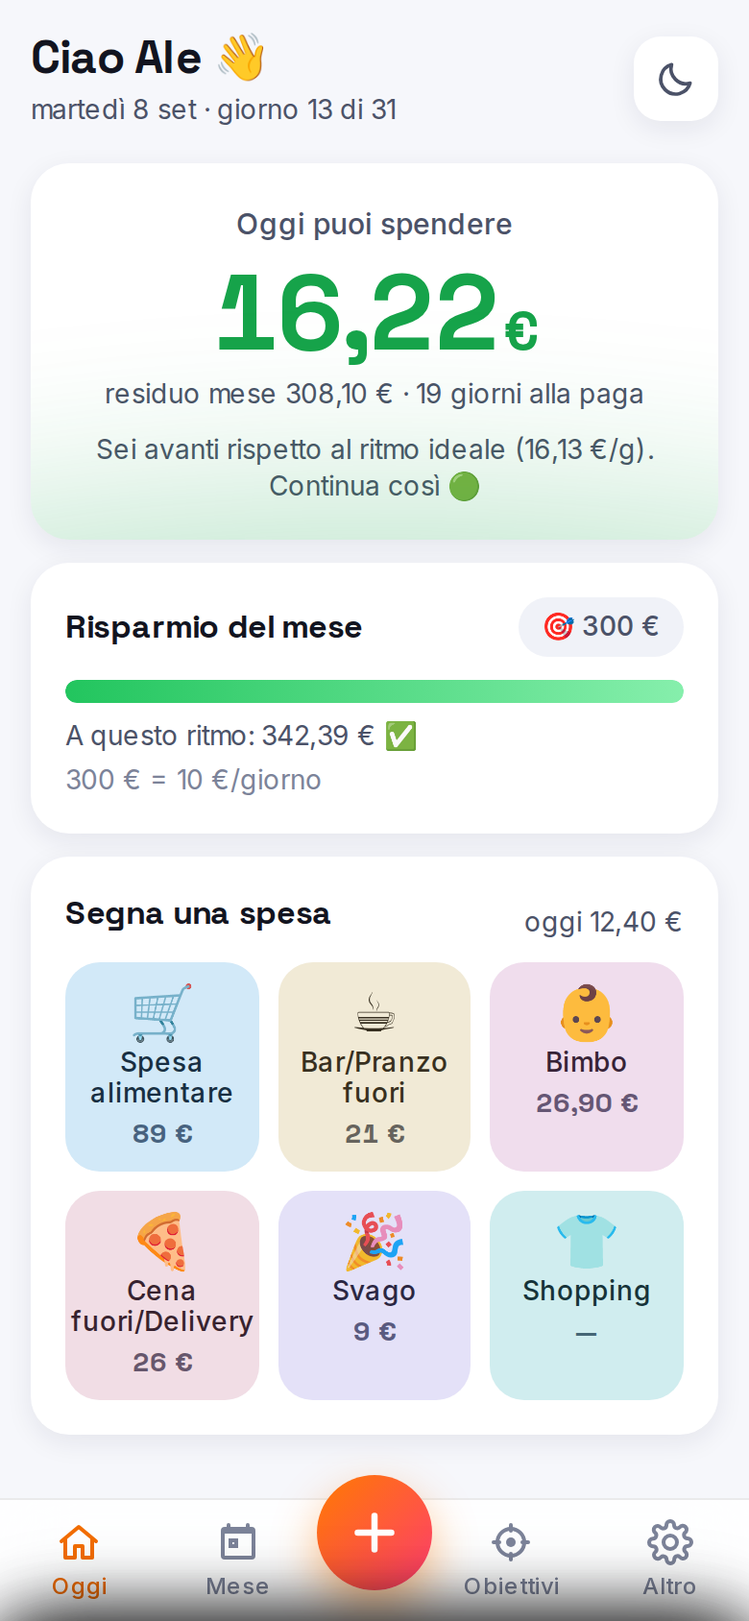
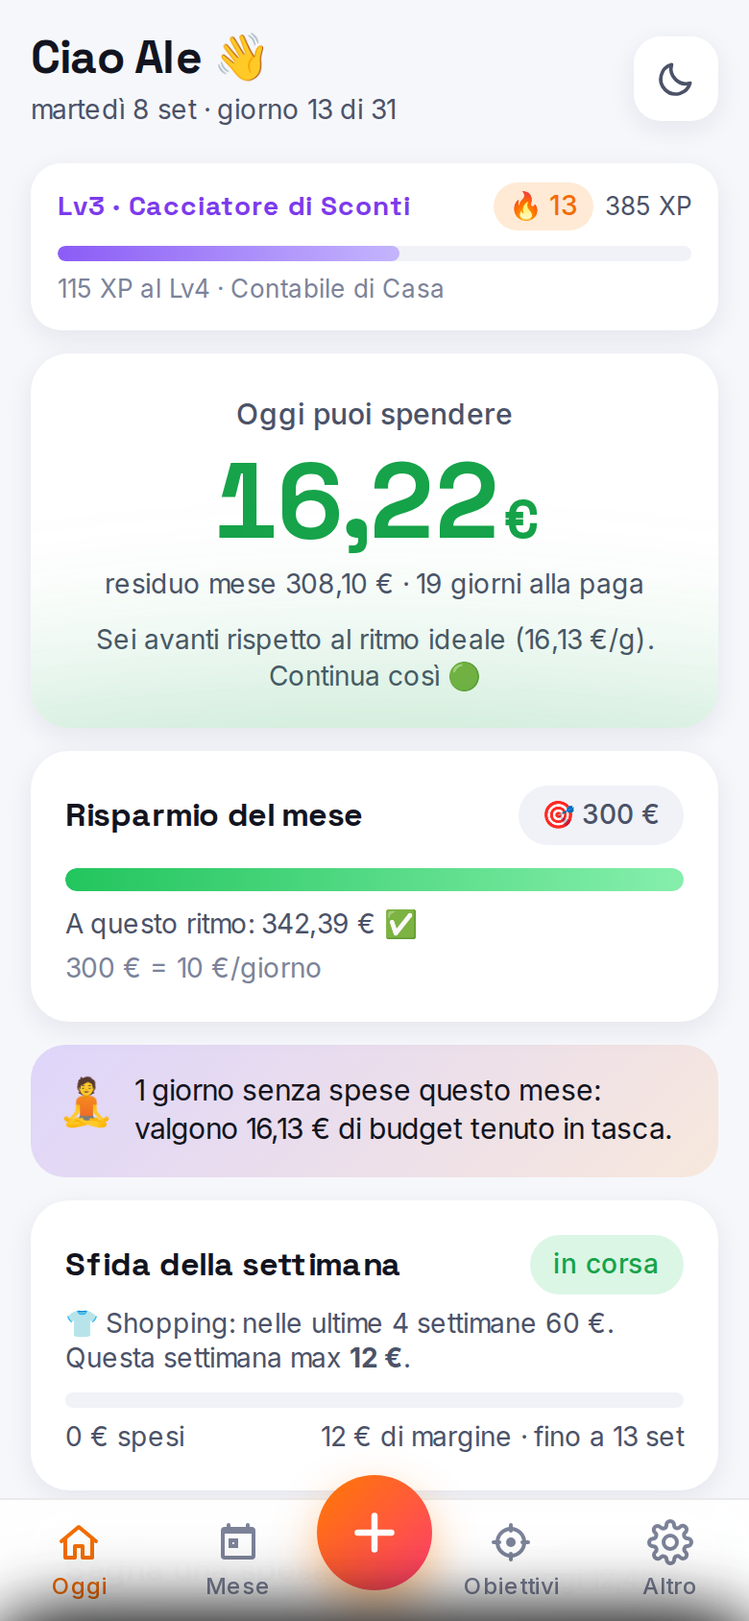
feat(soldi): gamification
XP legati a eventi finanziari reali (spesa registrata max 5/g, no-spend
day, settimana sotto budget, mese chiuso a obiettivo, salvadanaio pieno),
10 livelli con nomi ironici, streak di registrazione con 1 gelo al mese,
12 badge reali, sfida settimanale calcolata sui dati, insight concreti a
rotazione, Pagella al cambio mese, confetti solo su obiettivo/mese/badge,
città SVG che cresce di un edificio ogni 100 € versati.

Claude-Session: https://claude.ai/code/session_01E4buKwPQgm13Yjm7FVUMWz

Changed region(s): [[0.0308, 0.0924, 0.9846, 0.8934], [0.8923, 0.1232, 0.9231, 0.154], [0.8308, 0.1232, 0.8615, 0.154]]

diff --git a/soldi/index.html b/soldi/index.html
@@ -35,7 +35,7 @@
   color-scheme:light;
 }
 *{box-sizing:border-box;-webkit-tap-highlight-color:transparent}
-html,body{margin:0;background:var(--bg);color:var(--text);font-family:var(--font);font-size:16px;line-height:1.35;-webkit-font-smoothing:antialiased;overscroll-behavior-y:none}
+html,body{margin:0;background:var(--bg);color:var(--text);font-family:var(--font);font-size:16px;line-height:1.35;-webkit-font-smoothing:antialiased;overscroll-behavior-y:none;overflow-x:hidden;max-width:100vw}
 body{min-height:100dvh;padding-top:var(--sat)}
 button,input,select,textarea{font:inherit;color:inherit}
 button{cursor:pointer;border:0;background:none;padding:0;margin:0;touch-action:manipulation}
@@ -239,10 +239,10 @@ input:focus-visible{outline-offset:0}
 .emojigrid button.on{background:var(--surface-3)}
 
 /* gamification */
-.xpbar{display:flex;align-items:center;gap:10px;padding:10px 14px;background:var(--surface);border-radius:16px;margin:12px 0 0;box-shadow:var(--shadow-sm)}
-.xpbar .lv{font-family:var(--num);font-weight:700;font-size:14px;color:var(--violet);white-space:nowrap}
-.xpbar .bar{flex:1}
-.xpbar .xp{font-size:13px;color:var(--text-2);white-space:nowrap}
+.xpbar{padding:10px 14px 12px;background:var(--surface);border-radius:16px;margin:12px 0 0;box-shadow:var(--shadow-sm)}
+.xpbar .top{display:flex;align-items:center;justify-content:space-between;gap:8px;margin-bottom:8px;min-width:0}
+.xpbar .lv{font-family:var(--num);font-weight:700;font-size:14px;color:var(--violet);overflow:hidden;text-overflow:ellipsis;white-space:nowrap;min-width:0}
+.xpbar .xp{font-size:13px;color:var(--text-2);white-space:nowrap;display:flex;align-items:center;gap:6px;flex:0 0 auto}
 .badges{display:grid;grid-template-columns:repeat(4,1fr);gap:8px}
 .badge{background:var(--surface-2);border-radius:16px;padding:10px 4px;display:flex;flex-direction:column;align-items:center;gap:4px;text-align:center;min-height:84px}
 .badge .em{font-size:28px;filter:grayscale(1);opacity:.35}
@@ -487,7 +487,8 @@ const uid = () => Math.random().toString(36).slice(2,10) + Date.now().toString(3
 const clamp = (v,a,b) => Math.min(b, Math.max(a, v));
 const round2 = v => Math.round(v*100)/100;
 const REDUCED = matchMedia('(prefers-reduced-motion: reduce)').matches;
-const vibrate = (p=12) => { try { navigator.vibrate && navigator.vibrate(p); } catch(e){} };
+let userGesture = false; addEventListener('pointerdown', () => { userGesture = true; }, {once:true, passive:true}); addEventListener('keydown', () => { userGesture = true; }, {once:true});
+const vibrate = (p=12) => { if (!userGesture) return; try { navigator.vibrate && navigator.vibrate(p); } catch(e){} };
 
 /* ---------- formattazione ---------- */
 const nf0 = new Intl.NumberFormat('it-IT', {maximumFractionDigits:0});
@@ -803,7 +804,7 @@ let openSheet = null;
 function sheetOpen(id){
   if (openSheet && openSheet !== id) $('#' + openSheet).classList.remove('open');
   openSheet = id; $('#overlay').classList.add('open'); $('#' + id).classList.add('open');
-  document.body.style.overflow = 'hidden';
+  document.body.style.overflow = 'hidden'; $('#toast').classList.remove('show'); clearTimeout(toastTimer);
 }
 function sheetClose(){
   if (openSheet) $('#' + openSheet).classList.remove('open');
@@ -1030,9 +1031,10 @@ function renderMonth(){
     <span class="k">Obiettivo</span><span class="v num">${eur(goal)}</span>
     <span class="k">Delta</span><span class="v num" style="color:${delta>=0?'var(--green)':'var(--red)'}">${delta>=0?'+':''}${eur(delta)}</span>
     ${isCur ? `<span class="k">Budget variabile residuo</span><span class="v num">${eur(st.residual)} · ${st.daysLeft} gg</span>` : ''}
-  </div><div style="margin-top:10px">${cmp}</div></div>`;
+  </div><div class="row between" style="margin-top:10px;flex-wrap:wrap">${cmp}${arch ? `<button class="btn ghost sm" id="btn-pagella">📋 Pagella</button>` : ''}</div></div>`;
+  const bp = $('#btn-pagella'); if (bp) bp.addEventListener('click', () => showPagella(fm.id));
   const totals = byCatTotals(st.list); const entries = Object.entries(totals).sort((a,b) => b[1]-a[1]);
-  $('#month-donut').innerHTML = `<div class="card"><h2>Per categoria</h2><div class="donutwrap">${donutSVG(entries, st.spent)}<div class="legend grow" style="flex-direction:column;gap:6px">${entries.slice(0,6).map(([id,v]) => `<div class="it"><span class="dot" style="background:${cat(id).color}"></span><span class="nm">${cat(id).emoji} ${esc(cat(id).name)}</span><b class="num">${eur(v)}</b></div>`).join('') || '<div class="it">Nessuna spesa ancora</div>'}</div></div></div>`;
+  $('#month-donut').innerHTML = `<div class="card"><h2>Per categoria</h2><div class="donutwrap">${donutSVG(entries, st.spent)}<div class="legend grow" style="flex-direction:column;flex-wrap:nowrap;gap:6px">${entries.slice(0,6).map(([id,v]) => `<div class="it"><span class="dot" style="background:${cat(id).color}"></span><span class="nm">${cat(id).emoji} ${esc(cat(id).name)}</span><b class="num">${eur(v)}</b></div>`).join('') || '<div class="it">Nessuna spesa ancora</div>'}</div></div></div>`;
   $('#month-bars').innerHTML = `<div class="card"><h2>Giorno per giorno</h2>${barsSVG(fm, st.list, st.perDayIdeal, asOf)}<div class="row between small muted" style="margin-top:6px"><span>media ${eur(st.avgDaily, 2)}/g</span><span>ideale ${eur(st.perDayIdeal, 2)}/g</span></div></div>`;
   // lista
   let list = st.list.slice().sort((a,b) => b.date.localeCompare(a.date) || (b.ts||0) - (a.ts||0));
@@ -1287,11 +1289,251 @@ async function resetAll(){
 }
 </script>
 <script>
-/* stub Fase 1: sostituito in Fase 2 */
-function renderGamiHome(){ $('#xpbar-home').innerHTML = ''; $('#insight-home').innerHTML=''; $('#challenge-home').innerHTML=''; $('#city-home').innerHTML=''; }
-function renderBadges(){ $('#badges-card').innerHTML = ''; }
+/* =====================================================================
+   GAMIFICATION — ogni meccanica è legata a un evento finanziario reale.
+   Niente streak di login, niente classifiche, niente confetti a ogni spesa.
+   ===================================================================== */
+const LEVELS = [
+  [0,'Portafoglio Bucato'],[100,'Apprendista del Resto'],[250,'Cacciatore di Sconti'],[500,'Contabile di Casa'],
+  [800,'Formica Emiliana'],[1200,'Guardiano del Budget'],[1700,'Stratega del Salvadanaio'],[2300,'Maestro del Residuo'],
+  [3000,'Drago del Risparmio'],[4000,'Squalo del Risparmio']
+];
+const BADGES = [
+  {id:'first',       em:'✍', name:'Prima spesa',            desc:'Hai registrato la prima spesa'},
+  {id:'first300',    em:'🏆', name:'Primo mese a +300',      desc:'Mese chiuso con almeno 300 € risparmiati'},
+  {id:'week7',       em:'📅', name:'7 giorni sotto budget',  desc:'Una settimana intera sotto il budget giornaliero'},
+  {id:'nospend3',    em:'🧘', name:'3 no-spend di fila',     desc:'Tre giorni consecutivi senza spese variabili'},
+  {id:'bar20',       em:'☕', name:'Bar −20%',               desc:'Bar/Pranzo fuori −20% rispetto al mese prima'},
+  {id:'fondo25',     em:'🛟', name:'Fondo al 25%',           desc:'Fondo emergenza al 25%'},
+  {id:'fondo50',     em:'🛟', name:'Fondo al 50%',           desc:'Fondo emergenza al 50%'},
+  {id:'fondo100',    em:'🏦', name:'Fondo completo',         desc:'Fondo emergenza al 100%'},
+  {id:'tredicesima', em:'🎄', name:'Tredicesima al sicuro',  desc:'Tredicesima interamente nei salvadanai'},
+  {id:'streak14',    em:'🔥', name:'14 giorni di fila',      desc:'Due settimane di registrazione senza buchi'},
+  {id:'goal',        em:'🎯', name:'Salvadanaio pieno',      desc:'Primo obiettivo raggiunto'},
+  {id:'tris',        em:'🥇', name:'Tris di mesi',           desc:'Tre mesi di fila con obiettivo centrato'},
+];
+const G = () => S.gami;
+const dayISO = ts => iso(new Date(ts));
+const firstUse = () => S.meta.firstUse || (S.meta.firstUse = dayISO(S.meta.created || Date.now()));
+function levelOf(xp){ let i = 0; for (let k = 0; k < LEVELS.length; k++) if (xp >= LEVELS[k][0]) i = k; return { n: i+1, name: LEVELS[i][1], from: LEVELS[i][0], to: LEVELS[i+1] ? LEVELS[i+1][0] : null }; }
+function addXP(n, why){
+  const before = levelOf(G().xp).n; G().xp += n; G().updatedAt = Date.now(); save();
+  const after = levelOf(G().xp);
+  if (after.n > before) { G().seenLevel = after.n; setTimeout(() => toast(`Livello ${after.n}: ${after.name}! 🎉`), 600); vibrate([20,40,20]); }
+  return n;
+}
+function unlockBadge(id, quiet){
+  if (G().badges.some(b => b.id === id)) return false;
+  const def = BADGES.find(b => b.id === id); if (!def) return false;
+  G().badges.push({ id, at: today() }); G().updatedAt = Date.now(); save();
+  if (!quiet) celebrate(`Badge sbloccato: ${def.em} ${def.name}`, def.desc);
+  return true;
+}
+/* ---- confetti (solo: obiettivo raggiunto, mese ≥300, badge) ---- */
+function celebrate(title, text, onClose){
+  vibrate([30,60,30,60,60]);
+  modalOpen(`<div style="text-align:center"><div style="font-size:56px" class="pop">🎉</div><h2>${esc(title)}</h2><p class="muted" style="margin:0 0 14px">${esc(text||'')}</p><button class="btn primary" id="m-ok">Grande!</button></div>`, onClose);
+  $('#m-ok').onclick = modalClose;
+  if (REDUCED) return;
+  const c = $('#confetti'); c.classList.remove('hidden'); const ctx = c.getContext('2d');
+  c.width = innerWidth * devicePixelRatio; c.height = innerHeight * devicePixelRatio; ctx.scale(devicePixelRatio, devicePixelRatio);
+  const cols = ['#FF7A00','#22C55E','#8B5CF6','#F59E0B','#38BDF8','#F472B6'];
+  const P = Array.from({length: 120}, () => ({ x: innerWidth/2 + (Math.random()-.5)*120, y: innerHeight*0.45, vx: (Math.random()-.5)*14, vy: -Math.random()*16-4, r: Math.random()*6+4, c: cols[Math.floor(Math.random()*cols.length)], a: Math.random()*Math.PI, va: (Math.random()-.5)*.3 }));
+  const t0 = performance.now();
+  (function frame(t){ const el = (t - t0)/1000; ctx.clearRect(0,0,innerWidth,innerHeight);
+    for (const p of P) { p.vy += .5; p.x += p.vx; p.y += p.vy; p.vx *= .99; p.a += p.va; ctx.save(); ctx.translate(p.x,p.y); ctx.rotate(p.a); ctx.fillStyle = p.c; ctx.globalAlpha = Math.max(0, 1 - el/2.2); ctx.fillRect(-p.r/2,-p.r/2,p.r,p.r*.6); ctx.restore(); }
+    if (el < 2.4) requestAnimationFrame(frame); else { ctx.clearRect(0,0,innerWidth,innerHeight); c.classList.add('hidden'); } })(t0);
+}
+
+/* ---- rilevazioni a ogni apertura ---- */
+function weekId(d){ const dt = fromISO(d); const day = (dt.getDay()+6)%7; dt.setDate(dt.getDate()-day); return iso(dt); } // lunedì
+function activityDays(){ const s = new Set(expenses().map(e => e.date)); for (const d of G().noSpend) s.add(d); return s; }
+function detectNoSpend(){
+  const t = today(); const from = G().lastSeen ? addDays(G().lastSeen, 0) : firstUse();
+  const start = addDays(t, -3) > from ? addDays(t, -3) : from; // al massimo 3 giorni indietro: se sparisci una settimana non regalo XP
+  const spentDays = new Set(expenses().map(e => e.date));
+  let n = 0;
+  for (let d = start; d < t; d = addDays(d, 1)) {
+    if (d < firstUse()) continue;
+    if (!spentDays.has(d) && !G().noSpend.includes(d)) { G().noSpend.push(d); n++; }
+  }
+  if (n) { addXP(25*n); toast(n === 1 ? `Ieri zero spese: +25 XP 🧘` : `${n} giorni senza spese: +${25*n} XP 🧘`); }
+  // badge 3 di fila
+  const ns = G().noSpend.slice().sort();
+  for (let i = 2; i < ns.length; i++) if (daysBetween(ns[i-2], ns[i]) === 2) { unlockBadge('nospend3'); break; }
+}
+function computeStreak(){
+  // giorni consecutivi con almeno una spesa registrata O un no-spend day; 1 "gelo" gratis al mese copre un buco
+  const A = activityDays(); const t = today(); const used = G().freezeUsed || (G().freezeUsed = {});
+  const pending = {}; const chain = []; // [{d, bridge}] dal più recente
+  let d = A.has(t) ? t : addDays(t, -1);
+  while (d >= firstUse() && chain.length < 3650) {
+    if (A.has(d)) chain.push({ d, bridge: false });
+    else { const m = d.slice(0,7); if (used[m] === d) chain.push({ d, bridge: true }); else if (!used[m] && !pending[m]) { pending[m] = d; chain.push({ d, bridge: true }); } else break; }
+    d = addDays(d, -1);
+  }
+  while (chain.length && chain[0].bridge) { const x = chain.shift(); const m = x.d.slice(0,7); if (pending[m] === x.d) delete pending[m]; } // un gelo vale solo tra due giorni attivi
+  while (chain.length && chain[chain.length-1].bridge) { const x = chain.pop(); const m = x.d.slice(0,7); if (pending[m] === x.d) delete pending[m]; }
+  Object.assign(used, pending);
+  const n = chain.length;
+  G().streak = n; if (n > (G().streakBest||0)) G().streakBest = n;
+  if (n >= 14) unlockBadge('streak14');
+  G().updatedAt = Date.now();
+}
+function checkWeeks(){ // settimane (lun-dom) chiuse sotto budget → +50
+  const t = today(); const thisWeek = weekId(t); let w = weekId(firstUse());
+  if (w < firstUse()) w = addDays(w, 7);
+  G().weeksClosed = G().weeksClosed || [];
+  while (addDays(w, 6) < t && w < thisWeek) {
+    if (!G().weeksClosed.includes(w)) {
+      const end = addDays(w, 6); const fm = finMonth(end); const per = budgetVar() / fm.days;
+      const spent = sum(expenses().filter(e => e.date >= w && e.date <= end));
+      G().weeksClosed.push(w);
+      if (spent <= per * 7) { addXP(50); toast(`Settimana ${fmtShort(w)}–${fmtShort(end)} sotto budget: +50 XP 🟢`); }
+      // sfida settimanale della settimana chiusa
+      const ch = G().weekly; if (ch && ch.week === w && ch.catId) { const s = sum(expenses().filter(e => e.date >= w && e.date <= end && e.catId === ch.catId)); if (s <= ch.target) { addXP(30); toast(`Sfida vinta: ${cat(ch.catId).emoji} ${eur(s)} ≤ ${eur(ch.target)} · +30 XP`); } }
+    }
+    w = addDays(w, 7);
+  }
+  // 7 giorni consecutivi sotto budget/giorno
+  const fm = finMonth(t); const per = budgetVar() / fm.days; const byDay = {}; for (const e of expenses()) byDay[e.date] = (byDay[e.date]||0) + e.amount;
+  let run = 0; for (let d = addDays(t, -1); d >= firstUse() && d >= addDays(t, -60); d = addDays(d, -1)) { if ((byDay[d]||0) <= per) { run++; if (run >= 7) { unlockBadge('week7'); break; } } else run = 0; }
+}
+function weeklyChallenge(){
+  const t = today(); const w = weekId(t);
+  if (G().weekly && G().weekly.week === w) return G().weekly;
+  const from = addDays(w, -28), to = addDays(w, -1);
+  const hist = expenses().filter(e => e.date >= from && e.date <= to);
+  let ch = { week: w, catId: null, target: 0, base: 0 };
+  if (hist.length >= 3) {
+    const tot = byCatTotals(hist); const pick = Object.entries(tot).filter(([id]) => id !== 'spesa').sort((a,b) => b[1]-a[1])[0] || Object.entries(tot).sort((a,b) => b[1]-a[1])[0];
+    if (pick) ch = { week: w, catId: pick[0], base: round2(pick[1]), target: Math.max(5, Math.round(pick[1] / 4 * 0.8)) };
+  }
+  G().weekly = ch; G().updatedAt = Date.now(); save(); return ch;
+}
+function checkGoalBadges(){
+  const f = S.goals.find(g => g.id === 'fondo' && !g.deleted) || goals().find(g => /emergenz/i.test(g.name));
+  if (f && f.target > 0) { const p = f.balance / f.target; if (p >= 1) unlockBadge('fondo100'); else if (p >= .5) unlockBadge('fondo50'); else if (p >= .25) unlockBadge('fondo25'); }
+}
+function onOpen(){
+  firstUse();
+  if (expenses().length) unlockBadge('first');
+  detectNoSpend(); checkWeeks(); computeStreak(); weeklyChallenge(); checkGoalBadges();
+  G().lastSeen = today(); G().insightIdx = (G().insightIdx||0) + 1; G().updatedAt = Date.now(); save();
+}
+EV.on('open', onOpen);
+EV.on('expenseAdded', e => {
+  const d = today(); const log = G().xpLog; const cnt = log[d] || 0;
+  if (e.date === d && cnt < 5) { log[d] = cnt + 1; addXP(10); }
+  const i = G().noSpend.indexOf(e.date); if (i >= 0) G().noSpend.splice(i, 1); // era segnato no-spend: non più
+  if (expenses().length === 1) unlockBadge('first');
+  computeStreak(); save();
+});
+EV.on('goalReached', g => { addXP(100); const nb = unlockBadge('goal', true); checkGoalBadges(); celebrate(`${g.emoji} ${g.name}: obiettivo raggiunto!`, `${eur(g.target)} messi da parte. Sul serio.${nb ? ' Badge 🎯 Salvadanaio pieno sbloccato.' : ''}`); });
+EV.on('income', inc => { if (inc.type === 'tredicesima' && inc.amount >= (+S.settings.extra.tredicesima || 0)) unlockBadge('tredicesima'); checkGoalBadges(); });
+EV.on('monthClosed', rec => {
+  const hit = rec.saved >= rec.goal;
+  if (hit) { addXP(200); unlockBadge('first300', true); }
+  if (rec.prevByCat && rec.prevByCat.bar > 0 && (rec.byCat.bar||0) <= rec.prevByCat.bar * 0.8) unlockBadge('bar20', true);
+  const closed = S.months.slice().sort((a,b) => a.id.localeCompare(b.id)); const last3 = closed.slice(-3);
+  if (last3.length === 3 && last3.every(m => m.saved >= m.goal)) unlockBadge('tris', true);
+  rec.badges = G().badges.filter(b => b.at === today()).map(b => b.id);
+  checkGoalBadges();
+});
+
+/* ---- insight concreti (1 alla volta, ruotano) ---- */
+function insights(st){
+  const out = []; const goal = S.settings.savingsGoal; const fm = st.fm;
+  const totals = byCatTotals(st.list); const top = Object.entries(totals).sort((a,b) => b[1]-a[1])[0];
+  if (top && st.daysElapsed >= 3) {
+    const c = cat(top[0]); const projC = top[1] / st.daysElapsed * fm.days; const target = Math.max(10, Math.round(projC * 0.7 / 10) * 10);
+    const gain = projC - target; const days = Math.floor(gain / st.perDayIdeal);
+    if (st.projectedSaving < goal) out.push({ em: c.emoji, t: `Se tieni ${c.name} a ${eur(target)}/mese (ora viaggi a ${eur(projC)}) recuperi ${eur(gain)} e ${st.projectedSaving + gain >= goal ? 'centri i ' + eur(goal) : 'ti avvicini ai ' + eur(goal)}.` });
+    else if (days >= 1) out.push({ em: c.emoji, t: `Se tagli ${c.name} a ${eur(target)}/mese raggiungi i ${eur(goal)} con ${days} giorn${days===1?'o':'i'} di anticipo.` });
+  }
+  const ns = G().noSpend.filter(d => d >= fm.start && d <= fm.end).length;
+  if (ns) out.push({ em: '🧘', t: `${ns} giorn${ns===1?'o':'i'} senza spese questo mese: valgono ${eur(ns * st.perDayIdeal)} di budget tenuto in tasca.` });
+  const prev = sameDayPrevMonth(fm, today()); if (prev.hasData && st.daysElapsed >= 2) out.push({ em: prev.spent >= st.spent ? '📉' : '📈', t: prev.spent >= st.spent ? `Allo stesso giorno del mese scorso avevi speso ${eur(prev.spent)}: oggi sei a ${eur(st.spent)}, ${eur(prev.spent - st.spent)} in meno.` : `Allo stesso giorno del mese scorso eri a ${eur(prev.spent)}: oggi ${eur(st.spent)}. Occhio alle prossime ${st.daysLeft} giornate.` });
+  for (const g of goals()) if (g.deadline && g.balance < g.target) { const dl = daysBetween(today(), g.deadline); if (dl >= 0 && dl <= 90) out.push({ em: g.emoji, t: `${g.name} tra ${dl} giorni: mancano ${eur(g.target - g.balance)}. ${eur(Math.ceil((g.target - g.balance) / Math.max(1, dl)))} al giorno e ci sei.` }); }
+  const a = annualProgress(); if (a.total > 0) out.push({ em: '🏁', t: `Traguardo annuo: ${eur(a.total)} su ${eur(a.target)} (${Math.round(a.total/a.target*100)}%). ${eur(a.target - a.total)} e sei in cima.` });
+  if (st.spentToday === 0 && st.daysElapsed > 1) out.push({ em: '☀', t: `Oggi zero spese finora. Se resta così: +25 XP stasera e ${eur(st.perDayIdeal)} in più di margine.` });
+  if (!out.length) out.push({ em: '🌱', t: `Registra tutto per qualche giorno: da lì arrivano i consigli fatti sui tuoi numeri.` });
+  return out;
+}
+function cityIndex(){
+  const total = sum(S.incomes.filter(i => !i.deleted)); // versamenti nei salvadanai (mensili + extra)
+  const monuments = S.incomes.filter(i => !i.deleted && (i.type === 'tredicesima' || i.type === 'quattordicesima')).length;
+  return { total, buildings: Math.floor(total / 100), monuments };
+}
+function citySVG(){
+  const { total, buildings, monuments } = cityIndex();
+  const W = 360, H = 150, ground = 122; const n = Math.min(buildings, 28); const bw = n > 14 ? 20 : 26; const gap = 4;
+  const startX = Math.max(8, (W - n*(bw+gap)) / 2);
+  let els = ''; const cols = ['#4C5BD4','#7C3AED','#2E3A8C'];
+  const rnd = i => { const x = Math.sin(i*9301+49297) * 233280; return x - Math.floor(x); };
+  for (let i = 0; i < n; i++) {
+    const h = 30 + Math.round(rnd(i) * 60); const x = startX + i*(bw+gap); const y = ground - h; const col = cols[i % 3];
+    els += `<rect x="${x}" y="${y}" width="${bw}" height="${h}" rx="2" fill="${col}"/>`;
+    if (rnd(i+7) > .5) els += `<rect x="${x + bw/2 - 3}" y="${y-8}" width="6" height="8" fill="${col}"/>`;
+    for (let r = 0; r < Math.floor((h-8)/12); r++) for (let c = 0; c < Math.floor((bw-6)/8); c++) if (rnd(i*31 + r*7 + c*3) > .35) els += `<rect x="${x + 4 + c*8}" y="${y + 6 + r*12}" width="4" height="6" fill="#FDE68A" opacity=".95"/>`;
+  }
+  for (let m = 0; m < Math.min(monuments, 3); m++) { const x = W - 40 - m*30; els += `<polygon points="${x},${ground} ${x+14},${ground-78} ${x+28},${ground}" fill="#FF7A00"/><rect x="${x+12}" y="${ground-84}" width="4" height="10" fill="#FFB366"/><circle cx="${x+14}" cy="${ground-86}" r="4" fill="#FDE68A"/>`; }
+  const stars = Array.from({length: 26}, (_, i) => `<circle cx="${(rnd(i*3)*W).toFixed(0)}" cy="${(rnd(i*5)*80+6).toFixed(0)}" r="${(rnd(i*7)*1.2+.5).toFixed(1)}" fill="#fff" opacity="${(rnd(i*11)*.6+.3).toFixed(2)}"/>`).join('');
+  const next = 100 - (total % 100);
+  return `<svg class="city" viewBox="0 0 ${W} ${H}" role="img" aria-label="La tua città: ${buildings} edifici"><defs><linearGradient id="sky" x1="0" y1="0" x2="0" y2="1"><stop offset="0" stop-color="#0B1030"/><stop offset="1" stop-color="#2A1F5C"/></linearGradient></defs><rect width="${W}" height="${H}" fill="url(#sky)"/>${stars}<circle cx="318" cy="30" r="14" fill="#FDE68A"/><circle cx="324" cy="26" r="12" fill="#1A1F4A"/>${els}<rect x="0" y="${ground}" width="${W}" height="${H-ground}" fill="#141838"/>${n === 0 ? `<text x="${W/2}" y="${ground-30}" text-anchor="middle" font-family="Inter" font-size="13" fill="#A6ADC2">Terreno pronto: il primo edificio arriva a 100 € risparmiati</text>` : ''}<text x="12" y="${H-9}" font-family="Inter" font-size="11" fill="#A6ADC2">${buildings} edifici${monuments ? ' · ' + monuments + ' monument' + (monuments===1?'o':'i') : ''} · prossimo tra ${eur(next)}</text></svg>`;
+}
+
+/* ---- rendering in home / obiettivi ---- */
+function renderGamiHome(st){
+  const lv = levelOf(G().xp); const pct = lv.to ? (G().xp - lv.from) / (lv.to - lv.from) * 100 : 100;
+  const streak = G().streak || 0;
+  $('#xpbar-home').innerHTML = `<div class="xpbar"><div class="top"><span class="lv">Lv${lv.n} · ${esc(lv.name)}</span><span class="xp">${streak >= 2 ? `<span class="pill orange" style="padding:3px 8px" title="Giorni di fila con spese registrate o no-spend">🔥 ${streak}</span>` : ''}<span>${G().xp} XP</span></span></div><div class="bar xp thin"><i style="width:${pct.toFixed(0)}%"></i></div>${lv.to ? `<div class="small faint" style="margin-top:6px;font-size:13px">${lv.to - G().xp} XP al Lv${lv.n+1} · ${esc(LEVELS[lv.n][1])}</div>` : ''}</div>`;
+  const ins = insights(st); const it = ins[(G().insightIdx||0) % ins.length];
+  $('#insight-home').innerHTML = `<div class="insight"><span class="em">${it.em}</span><span>${esc(it.t)}</span></div>`;
+  const ch = weeklyChallenge(); const w = ch.week, end = addDays(w, 6);
+  if (ch.catId) {
+    const c = cat(ch.catId); const spent = sum(expenses().filter(e => e.date >= w && e.date <= end && e.catId === ch.catId)); const p = clamp(spent / ch.target, 0, 1);
+    $('#challenge-home').innerHTML = `<div class="card challenge"><div class="row between"><h2 style="margin:0">Sfida della settimana</h2><span class="pill ${spent<=ch.target?'green':'red'}">${spent <= ch.target ? 'in corsa' : 'sforata'}</span></div><div class="small muted" style="margin:6px 0 8px">${c.emoji} ${esc(c.name)}: nelle ultime 4 settimane ${eur(ch.base)}. Questa settimana max <b>${eur(ch.target)}</b>.</div><div class="bar thin ${spent<=ch.target?'reward':''}" style="${spent>ch.target?'':''}"><i style="width:${(p*100).toFixed(0)}%;${spent>ch.target?'background:var(--red)':''}"></i></div><div class="nums"><span>${eur(spent)} spesi</span><span>${spent <= ch.target ? eur(ch.target - spent) + ' di margine' : 'oltre di ' + eur(spent - ch.target)} · fino a ${fmtShort(end)}</span></div></div>`;
+  } else $('#challenge-home').innerHTML = `<div class="card challenge"><h2>Sfida della settimana</h2><div class="small muted">Prima settimana di dati: registra tutto, la sfida su misura parte lunedì ${fmtShort(addDays(w, 7))}.</div></div>`;
+  $('#city-home').innerHTML = `<div class="card" style="padding:12px"><div class="row between" style="margin:2px 4px 10px"><h2 style="margin:0">La tua città</h2><span class="small muted">1 edificio ogni 100 €</span></div>${citySVG()}</div>`;
+}
+function renderBadges(){
+  const got = new Set(G().badges.map(b => b.id)); const lv = levelOf(G().xp);
+  $('#badges-card').innerHTML = `<div class="card"><div class="row between"><h2 style="margin:0">Badge</h2><span class="pill violet">Lv${lv.n} · ${G().xp} XP</span></div><div class="small muted" style="margin:6px 0 10px">${got.size} su ${BADGES.length}. Tutti legati a soldi veri.${G().streakBest ? ' Streak migliore: ' + G().streakBest + ' giorni.' : ''}</div><div class="badges">${BADGES.map(b => `<div class="badge ${got.has(b.id)?'on':''}" title="${esc(b.desc)}" aria-label="${esc(b.name)}: ${got.has(b.id)?'sbloccato':'da sbloccare'}"><span class="em">${b.em}</span><span class="nm">${esc(b.name)}</span></div>`).join('')}</div></div>`;
+}
+
+/* ---- Pagella: fresh start al giorno di paga ---- */
+function pagellaHTML(rec, isNew){
+  const hit = rec.saved >= rec.goal; const ents = Object.entries(rec.byCat || {});
+  let best = null, worst = null;
+  if (rec.prevByCat) { const diffs = ents.map(([id,v]) => [id, v - (rec.prevByCat[id]||0)]).sort((a,b) => a[1]-b[1]); if (diffs.length) { best = diffs[0]; worst = diffs[diffs.length-1]; } }
+  else if (ents.length) { const s = ents.slice().sort((a,b) => a[1]-b[1]); best = s[0]; worst = s[s.length-1]; }
+  const badges = (rec.badges||[]).map(id => BADGES.find(b => b.id === id)).filter(Boolean);
+  let tip;
+  if (rec.saved < 0) tip = `Il mese è finito a ${eur(rec.saved)}: nessun versamento, nessun dramma. Questo mese il budget riparte da ${eur(rec.budget)}: la prima settimana punta a ${eur(rec.budget/rec.days*7)}.`;
+  else if (!hit) tip = `Mancavano ${eur(rec.goal - rec.saved)}. ${worst ? `${cat(worst[0]).emoji} ${cat(worst[0]).name} è la voce da tenere d'occhio: ` + eur(rec.byCat[worst[0]]) + ' nel mese.' : ''} Riparti con ${eur(rec.budget / rec.days)} al giorno.`;
+  else tip = `Obiettivo centrato con ${eur(rec.saved - rec.goal)} di margine. ${best ? `${cat(best[0]).emoji} ${cat(best[0]).name} è andata benissimo.` : ''} Stesso ritmo e a fine anno sei oltre il traguardo.`;
+  return `<div class="pagella"><div style="text-align:center"><div style="font-size:44px">${isNew ? '🚀' : '📋'}</div><h2 style="margin:4px 0 2px">${isNew ? 'Nuovo mese' : 'Pagella'} · ${esc(rec.name)}</h2><div class="small muted">${fmtShort(rec.start)} → ${fmtShort(rec.end)}</div></div>
+  <div class="grid"><div class="stat"><div class="v" style="color:${hit?'var(--green)':rec.saved>=0?'var(--amber)':'var(--red)'}">${eur(rec.saved)}</div><div class="k">risparmiati su ${eur(rec.goal)}</div></div><div class="stat"><div class="v">${eur(rec.spent)}</div><div class="k">${rec.count} spese variabili</div></div>
+  ${best ? `<div class="stat"><div class="v" style="font-size:26px">${cat(best[0]).emoji}</div><div class="k">migliore: ${esc(cat(best[0]).name)}${rec.prevByCat ? ' (' + (best[1] <= 0 ? '' : '+') + eur(best[1]) + ')' : ''}</div></div>` : ''}
+  ${worst && worst[0] !== (best||[])[0] ? `<div class="stat"><div class="v" style="font-size:26px">${cat(worst[0]).emoji}</div><div class="k">da tenere d'occhio: ${esc(cat(worst[0]).name)}${rec.prevByCat ? ' (+' + eur(worst[1]) + ')' : ''}</div></div>` : ''}</div>
+  ${rec.deposit > 0 ? `<div class="small" style="margin:4px 0 10px">💰 Versati ${eur(rec.deposit)} nei salvadanai: ${Object.entries(rec.alloc||{}).map(([g,v]) => (S.goals.find(x=>x.id===g)||{emoji:'?'}).emoji + ' ' + eur(v)).join(' · ')}</div>` : ''}
+  ${badges.length ? `<div class="small" style="margin:4px 0 10px">🏅 Badge: ${badges.map(b => b.em + ' ' + esc(b.name)).join(', ')}</div>` : ''}
+  <div class="insight" style="margin:6px 0 12px"><span class="em">💡</span><span>${esc(tip)}</span></div>
+  <button class="btn primary" id="m-ok">${isNew ? 'Si riparte!' : 'Chiudi'}</button></div>`;
+}
+function afterMonthClose(closed){
+  if (!closed.length) return;
+  const rec = closed[closed.length-1];
+  const openPagella = () => { modalOpen(pagellaHTML(rec, true)); $('#m-ok').onclick = modalClose; };
+  if (rec.saved >= rec.goal) celebrate(`Mese chiuso a ${eur(rec.saved)}!`, `Obiettivo ${eur(rec.goal)} centrato. ${eur(rec.deposit)} nei salvadanai.`, openPagella);
+  else openPagella();
+}
+function showPagella(id){ const rec = S.months.find(m => m.id === id); if (rec) { modalOpen(pagellaHTML(rec, false)); $('#m-ok').onclick = modalClose; } }
+</script>
+<script>
+/* stub Fase 3 */
 function showOnboarding(force){ if (!force) { S.settings.onboarded = true; save(); } }
-function afterMonthClose(closed){ if (closed.length) toast(`Mese chiuso: ${eur(closed[closed.length-1].saved)} messi da parte`); }
 </script>
 <script>
 /* =====================================================================

diff --git a/soldi/sw.js b/soldi/sw.js
@@ -1,7 +1,7 @@
 /* Soldi · service worker — app shell in cache, funziona offline.
    Alza VERSION a ogni release: il nuovo SW si installa in silenzio e alla
    prossima apertura la cache vecchia sparisce. */
-const VERSION = 'soldi-v1';
+const VERSION = 'soldi-v2';
 const SHELL = ['./', 'index.html', 'manifest.json', 'seed.json', 'icons/icon-192.png', 'icons/icon-512.png', 'icons/icon-maskable-512.png', 'icons/apple-touch-icon.png'];
 
 self.addEventListener('install', e => {

diff --git a/soldi/PROGRESS.md b/soldi/PROGRESS.md
@@ -46,17 +46,22 @@ mese, split 70/30, export/import, merge seed, mese negativo → tutti verdi.
 - [x] Screenshot 390x844 Home/Tastierino/Mese/Obiettivi dark+light, guardati e corretti
 - [x] Commit "feat(soldi): core MVP" + deploy
 
-## Fase 2 — Gamification
-- [ ] XP (+10 spesa max 5/g, +25 no-spend day, +50 settimana sotto budget, +200 mese ≥300, +100 obiettivo)
-- [ ] Livelli ironici Lv1→Lv10, barra XP visibile
-- [ ] Streak di registrazione con 1 gelo/mese
-- [ ] Badge (max 12, reali)
-- [ ] Sfida settimanale automatica sui dati
-- [ ] Insight concreti in home (rotazione)
-- [ ] Fresh start: "Nuovo mese 🚀" + Pagella
-- [ ] Celebrazione (confetti + vibrazione) solo su eventi reali
-- [ ] Città che cresce (skyline SVG, 1 edificio / 100 €, monumento per tredicesima)
-- [ ] Screenshot + commit "feat(soldi): gamification" + deploy
+## Fase 2 — Gamification ✅
+Scelte: no-spend day rilevati all'apertura solo per gli ultimi 3 giorni
+(se sparisci una settimana non regalo XP); il gelo dello streak vale solo
+tra due giorni attivi; sfida settimanale vinta = +30 XP (non in specifica,
+aggiunto perché una sfida senza premio è moscia); badge sbloccati durante
+la chiusura mese sono elencati nella Pagella invece di aprire 3 modali.
+- [x] XP (+10 spesa max 5/g, +25 no-spend day, +50 settimana sotto budget, +200 mese ≥300, +100 obiettivo)
+- [x] Livelli ironici Lv1→Lv10, barra XP visibile
+- [x] Streak di registrazione con 1 gelo/mese
+- [x] Badge (max 12, reali)
+- [x] Sfida settimanale automatica sui dati
+- [x] Insight concreti in home (rotazione)
+- [x] Fresh start: "Nuovo mese 🚀" + Pagella
+- [x] Celebrazione (confetti + vibrazione) solo su eventi reali
+- [x] Città che cresce (skyline SVG, 1 edificio / 100 €, monumento per tredicesima)
+- [x] Screenshot + commit "feat(soldi): gamification" + deploy
 
 ## Fase 3 — Rifinitura
 - [ ] Onboarding 3 schermate
